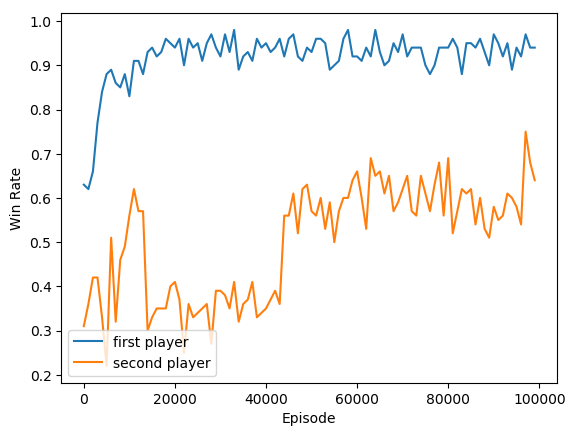
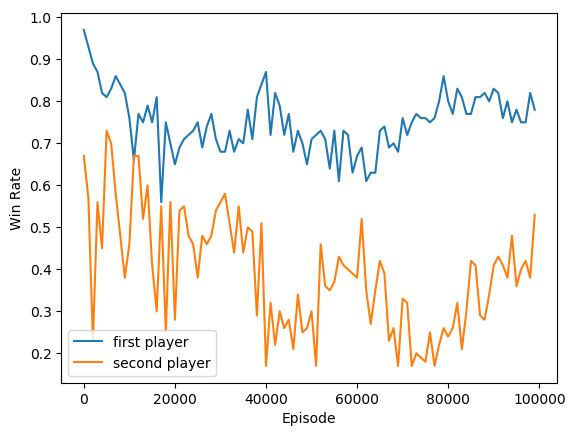
ugh

diff --git a/p4 (bonus)/tictactoe_bonus.py b/p4 (bonus)/tictactoe_bonus.py
@@ -196,9 +196,12 @@ def get_reward(status):
             Environment.STATUS_LOSE        : -1
     }[status]
 
-def load_weights(policy, episode):
+def load_weights(policy, episode, self_train=False):
     '''Load saved weights'''
-    weights = torch.load('ttt/policy-%d.pkl' % episode)
+    if self_train:
+        weights = torch.load('ttt/policy-self-%d.pkl' % episode)
+    else:
+        weights = torch.load('ttt/policy-%d.pkl' % episode)
     policy.load_state_dict(weights)
 
 
@@ -274,10 +277,10 @@ def train(policy, env, gamma=0.9, log_interval=1000, self_train=False):
     plt.savefig('plots/learningCurve.png', bbox_inches='tight')
     plt.show()
 
-def test(policy, env, ep, num_games=100, turn=1, out=True, play_self=False):
+def test(policy, env, ep, num_games=100, turn=1, out=True, self_train=False):
     win, tie, lose = 0, 0, 0
     first_player = 'X' if turn == 1 else 'O'
-    load_weights(policy, ep)
+    load_weights(policy, ep, self_train=self_train)
 
     for i in range(num_games):
         state = env.reset(turn=turn)
@@ -304,15 +307,15 @@ def test(policy, env, ep, num_games=100, turn=1, out=True, play_self=False):
         num_games, win, tie, lose, first_player))
     return win/num_games, tie/num_games, lose/num_games
 
-def plot_performance(policy, env):
+def plot_performance(policy, env, self_train=False):
     win_1, win_2 = list(), list()
 
     for ep in range (0, 100000, 1000):
-        w, _, _ = test(policy, env, ep, turn=1, out=False)
+        w, _, _ = test(policy, env, ep, turn=1, out=False, self_train=self_train)
         win_1.append(w)
 
     for ep in range (0, 100000, 1000):
-        w, _, _ = test(policy, env, ep, turn=2, out=False)
+        w, _, _ = test(policy, env, ep, turn=2, out=False, self_train=self_train)
         win_2.append(w)
 
     plt.plot(np.arange(0, 100000, 1000), win_1, label='first player')
@@ -337,14 +340,16 @@ if __name__ == '__main__':
     # train(policy, env)
     # plot_performance(policy, env)
 
-    if len(sys.argv) > 1:
+    # if len(sys.argv) > 1:
         # final model is policy-98000.pkl
         # test(policy, env, int(sys.argv[1]), turn=1)
         # test(policy, env, int(sys.argv[1]), turn=2)
 
-        policy = Policy()
-        load_weights(policy, int(sys.argv[1]))
-        train(policy, env, self_train=True)
+        # policy = Policy()
+        # load_weights(policy, int(sys.argv[1]))
+        # train(policy, env, self_train=True)
+
+    plot_performance(policy, env, self_train=True)
 
     end = time.time()
     print('Time elapsed: %.2fs' % (end-start))
